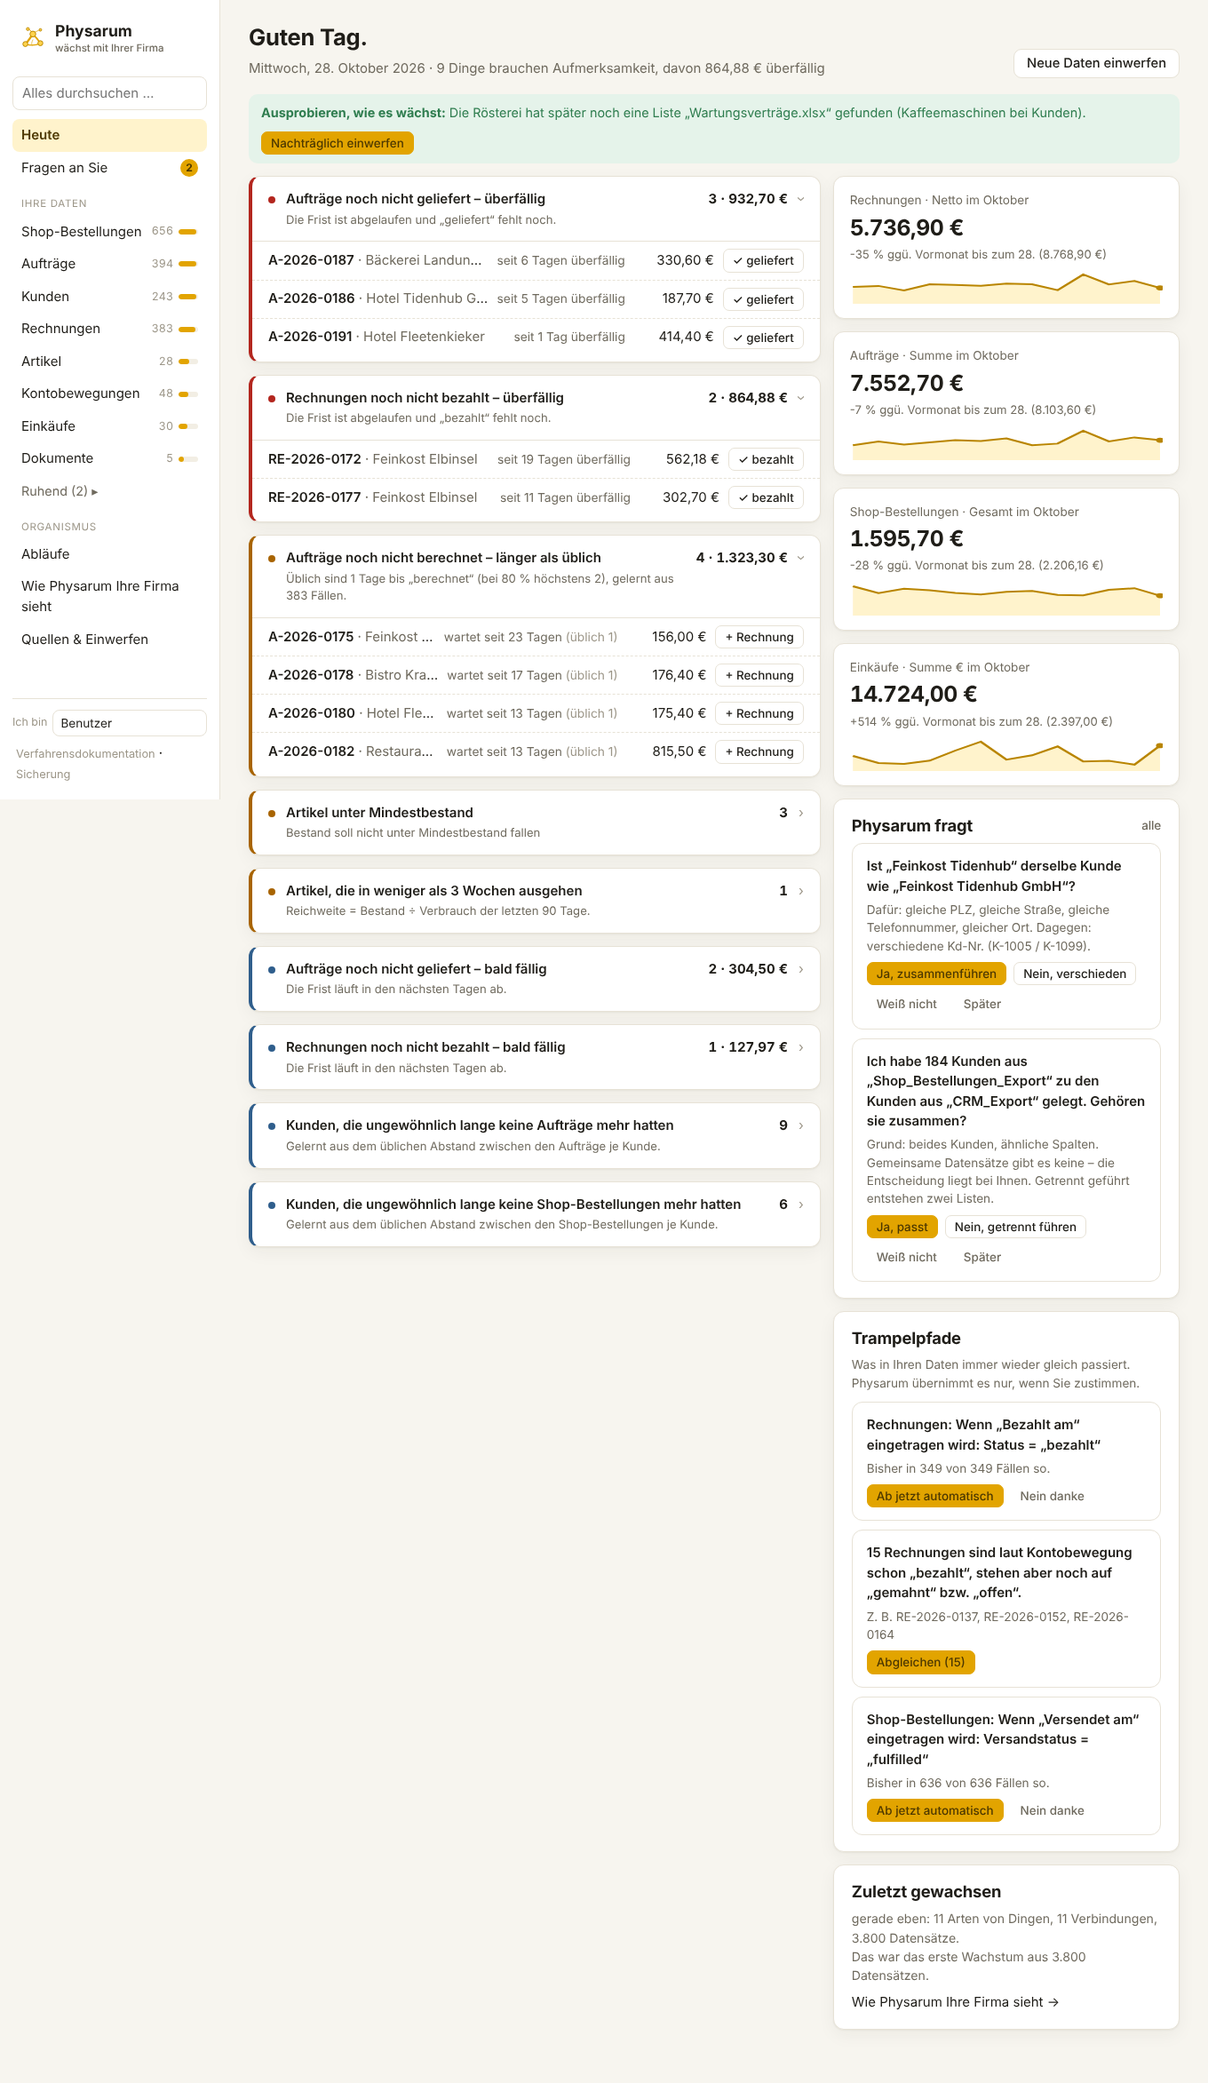
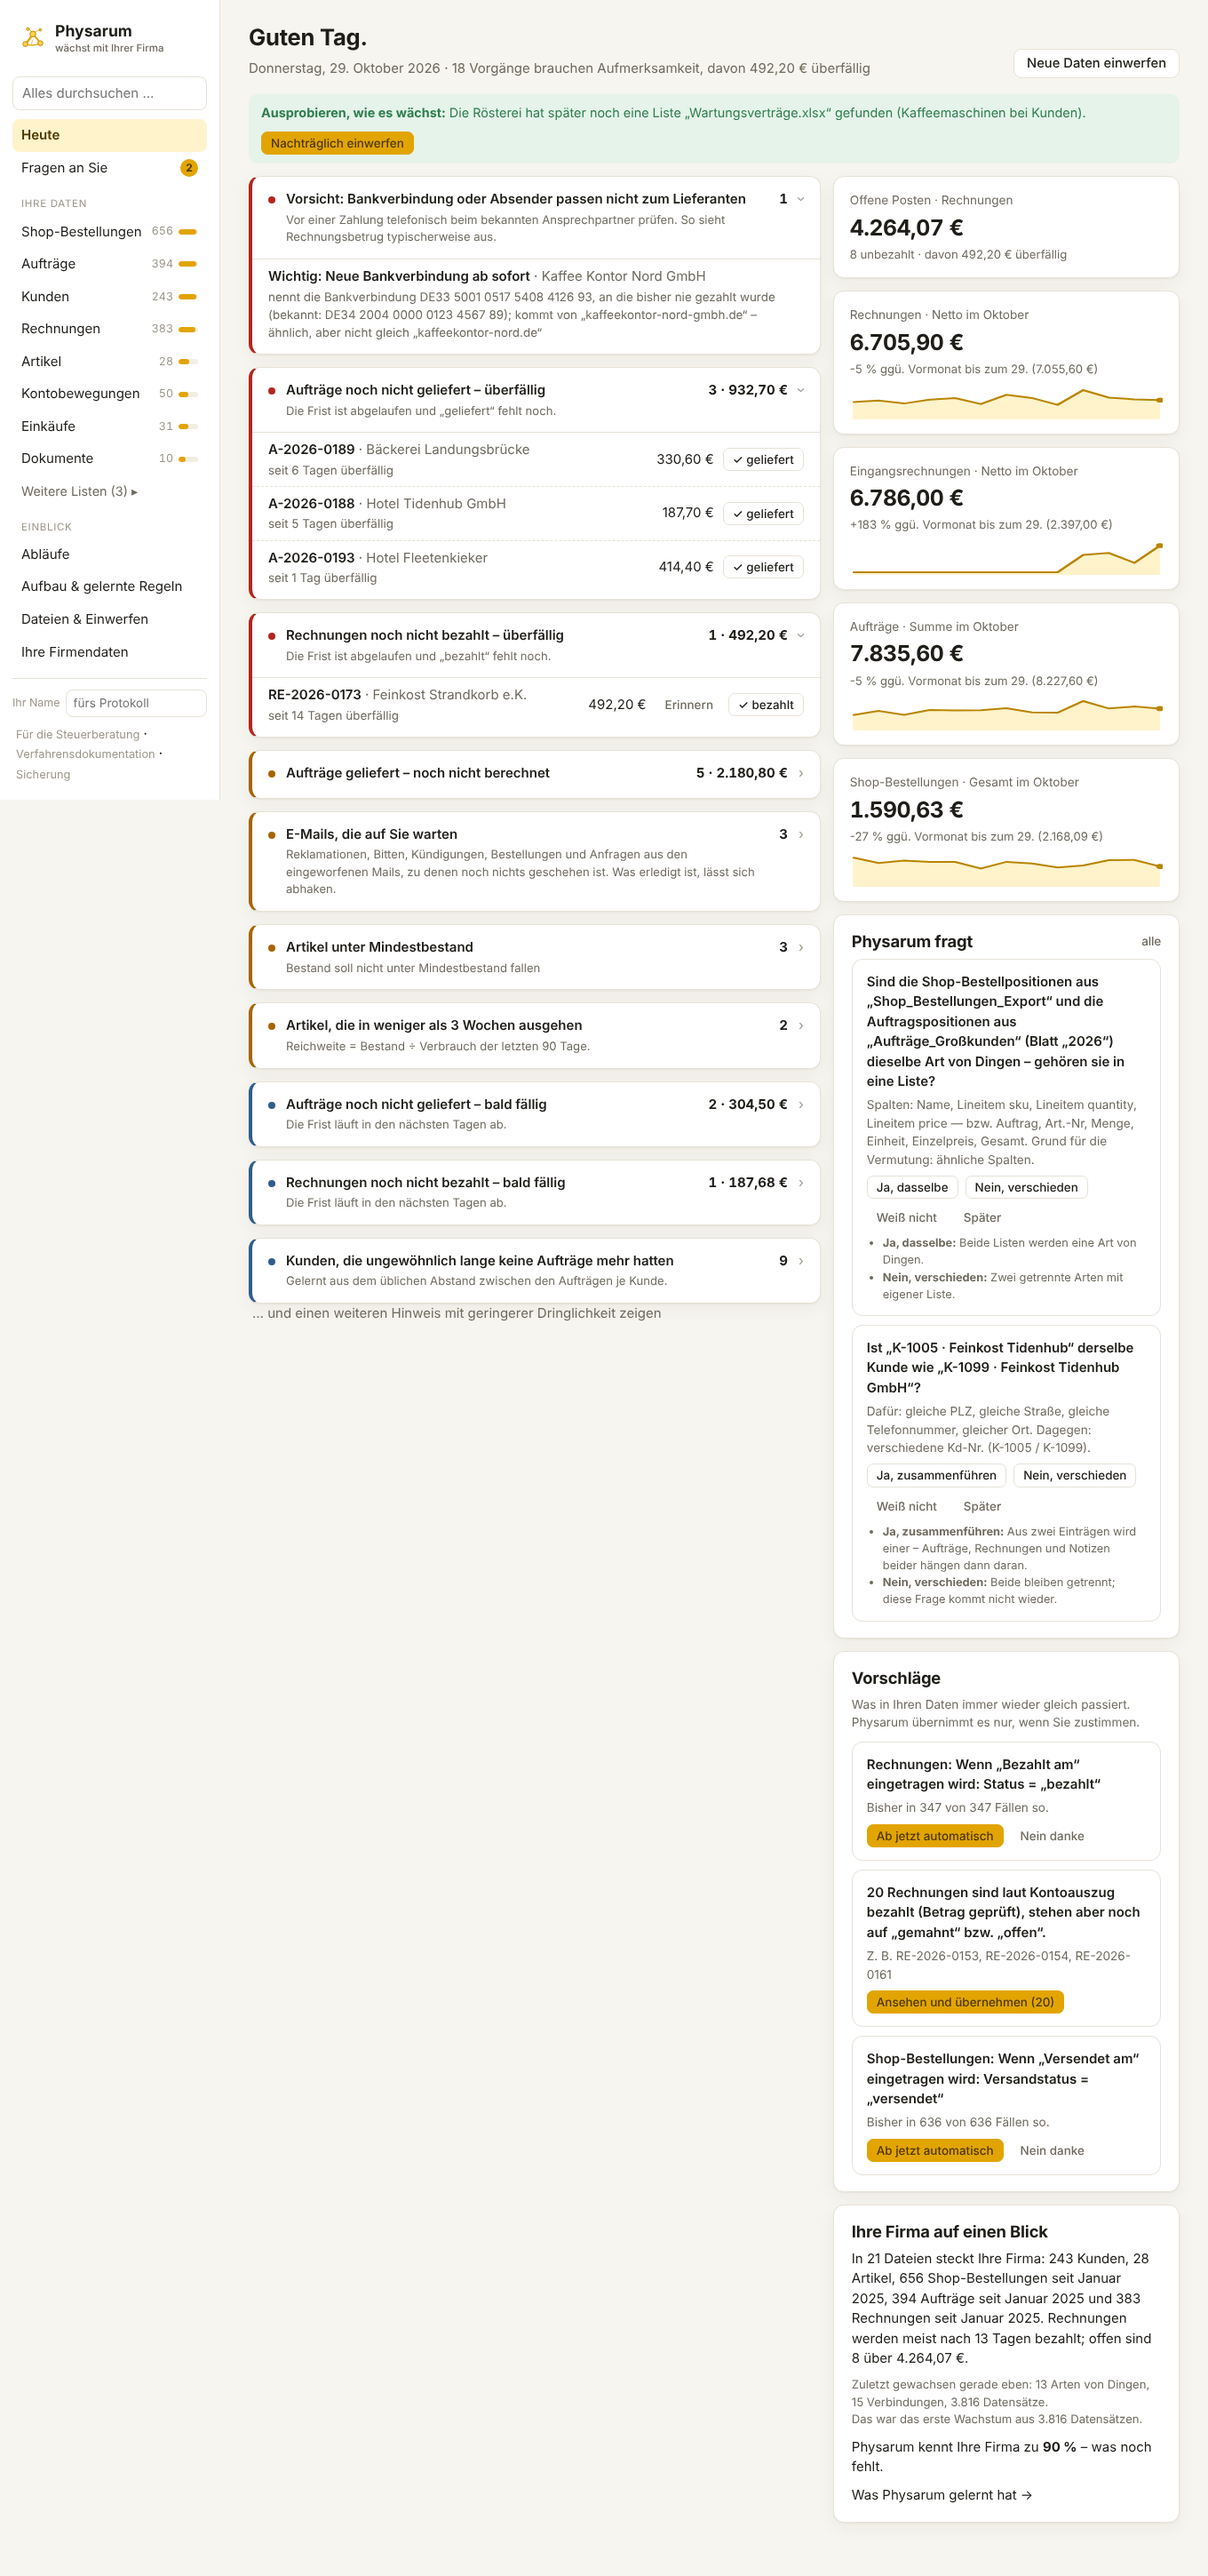
Positionen summieren Menge × Preis; Status und Netz lesbar
- Unter einer Shop-Bestellung stand als Summe der Positionen „9,52 €“ –
  der Stückpreis, nicht 2 × 9,52 €. Ein Einzelpreis wird nicht mehr
  addiert; gibt es keine Gesamtspalte, zählt Menge × Preis.
- Oben im Datensatz steht der Status auf Deutsch („nicht versendet“ statt
  „unfulfilled“), wie in den Feldern darunter.
- Im Netz der Arten wird ein langer Name am Rand nicht mehr abgeschnitten.
- „… und einen weiteren Hinweis zeigen“ statt „1 weitere Hinweis“.
- Neue Screenshots der Beispiel-Firma.

Claude-Session: https://claude.ai/code/session_01JaX4AY7xwaNBKKHu8xNPMb

Changed region(s): [[0.0, 0.0, 0.9882, 0.9962], [0.0309, 0.3424, 0.0926, 0.3736]]

diff --git a/physarum/web/templates/record.html b/physarum/web/templates/record.html
@@ -24,9 +24,9 @@
       <a class="pill" href="/t/{{ spec.id }}">{{ spec.name }}</a>
       {% if draft %}<span class="pill warn">Entwurf – noch nicht ausgestellt</span>{% endif %}
       {% if status_is_payment and not draft %}
-      <span class="pill {{ status_class(pay_status) }}" title="nach den Zahlungen im Kontoauszug{% if own_status != pay_status %} – in der Liste steht „{{ own_status }}“{% endif %}">{{ pay_status }}</span>
+      <span class="pill {{ status_class(pay_status) }}" title="nach den Zahlungen im Kontoauszug{% if own_status != pay_status %} – in der Liste steht „{{ show_value(own_status) }}“{% endif %}">{{ pay_status }}</span>
       {% else %}
-      {% if own_status and not draft %}<span class="pill {{ status_class(own_status) }}">{{ own_status }}</span>{% endif %}
+      {% if own_status and not draft %}<span class="pill {{ status_class(show_value(own_status)) }}" title="{{ own_status }}">{{ show_value(own_status) }}</span>{% endif %}
       {% if pay_status and pay_status != own_status %}<span class="pill {{ status_class(pay_status) }}" title="nach den Zahlungen im Kontoauszug">Zahlung: {{ pay_status }}</span>{% endif %}
       {% endif %}
       {% if lock and not lock.cancelled %}<span class="pill info" title="{{ lock.reason }}">festgeschrieben</span>{% endif %}

diff --git a/physarum/web/templates/home.html b/physarum/web/templates/home.html
@@ -97,7 +97,7 @@
       </details>
     </article>
     {% endfor %}
-    {% if more_work %}<button type="button" class="linkish muted" data-more=".more-group">… und {{ more_work }} weitere {{ 'Hinweis' if more_work == 1 else 'Hinweise' }} mit geringerer Dringlichkeit zeigen</button>{% endif %}
+    {% if more_work %}<button type="button" class="linkish muted" data-more=".more-group">… und {{ 'einen weiteren Hinweis' if more_work == 1 else more_work ~ ' weitere Hinweise' }} mit geringerer Dringlichkeit zeigen</button>{% endif %}
     </div>
 
     {% if quality %}

diff --git a/physarum/web/app.py b/physarum/web/app.py
@@ -135,6 +135,7 @@ def create_app(folder: str | Path, hosts: set[str] | None = None, any_ip: bool =
                        ago=views.ago, days_text=views.days_text, input_value=views.input_value,
                        after_days=views.after_days,
                        title=lambda rid: rt.title(rid), status_class=views.status_class, display=display,
+                       show_value=views.show_value,
                        stale_days=lambda iso: (date.today() - date.fromisoformat(str(iso)[:10])).days if iso else 0)
     env.filters["de"] = lambda x, d=0: views.display(x, "number") if d == 0 else f"{x:,.{d}f}".replace(",", "X").replace(".", ",").replace("X", ".")
     env.filters["json"] = lambda x: json.dumps(x, ensure_ascii=False, default=str)
@@ -525,12 +526,23 @@ def create_app(folder: str | Path, hosts: set[str] | None = None, any_ip: bool =
                 recs.sort(key=lambda r: str(r["data"].get(dattr) or ""), reverse=True)
             cols = views.related_columns(s2, recs, spec["id"], 6)
             money_cols = [c for c in s2["attrs"] if c["kind"] == "money" and not c.get("hidden")]
-            total_attr = next((c for c in money_cols if set(billing.words(c["name"])) & {"gesamt", "summe", "total", "betrag",
-                                                                                       "brutto", "offen"}), None) \
-                or (money_cols[-1] if money_cols else None)
-            total = sum(float(r["data"].get(total_attr["id"]) or 0) for r in recs if isinstance(r["data"].get(total_attr["id"]), (int, float))) if total_attr else None
-            label = s2["plural"] if kind == "ref" else (f"Erwähnt in {s2['plural']}" if attr != "doc" else "Erwähnt in Dokumenten")
             lines = s2["kind"] == "line"
+            # a unit price adds up to nothing: 2 × 9,52 € are not 9,52 €
+            per_piece = [c for c in money_cols if billing.words(c["name"]) & {"einzelpreis", "preis", "price", "ep",
+                                                                              "stueckpreis", "einheitspreis"}
+                         and not billing.words(c["name"]) & {"gesamt", "summe", "total", "gp", "gesamtpreis"}]
+            sums = [c for c in money_cols if c not in per_piece]
+            total_attr = next((c for c in sums if set(billing.words(c["name"])) & {"gesamt", "summe", "total", "betrag",
+                                                                                 "brutto", "offen"}), None) \
+                or (sums[-1] if sums else None)
+            total = sum(float(r["data"].get(total_attr["id"]) or 0) for r in recs if isinstance(r["data"].get(total_attr["id"]), (int, float))) if total_attr else None
+            qty = billing.attr_by(s2, kind="number", role="quantity") if lines and per_piece and not total_attr else None
+            if qty:  # the lines' worth: quantity × price
+                total = round(sum(float(r["data"][qty["id"]]) * float(r["data"][per_piece[0]["id"]]) for r in recs
+                                  if isinstance(r["data"].get(qty["id"]), (int, float))
+                                  and isinstance(r["data"].get(per_piece[0]["id"]), (int, float))), 2)
+                total_attr = dict(name=f"Summe (Menge × {per_piece[0]['name']})", currency=per_piece[0].get("currency"))
+            label = s2["plural"] if kind == "ref" else (f"Erwähnt in {s2['plural']}" if attr != "doc" else "Erwähnt in Dokumenten")
             shown = recs[:100] if lines else recs[:10]  # an invoice's positions in full; of 34 invoices the newest
             related.append(dict(spec=s2, attr=attr, kind=kind, recs=shown, n=len(recs), cols=cols, rel=relid,
                                 cond=cond.get(relid, 0.5 if kind == "ref" else 0.3), label=label, total=total,

diff --git a/physarum/web/views.py b/physarum/web/views.py
@@ -320,9 +320,16 @@ def organism_svg(rt, w: int = 900, h: int = 520, highlight: str | None = None) -
         r = min(r, 38)
         label = escape(t["plural"])
         cnt = t.get("count") or 0
+        # a long name at the edge would be cut off: it reads from the edge inwards instead
+        half, tx, anchor = len(t["plural"]) * 3.7, x, "middle"
+        if x - half < 4:
+            tx, anchor = max(4.0, x - r), "start"
+        elif x + half > w - 4:
+            tx, anchor = min(w - 4.0, x + r), "end"
+        how = f' style="text-anchor:{anchor}"' if anchor != "middle" else ""
         parts.append(f'<a href="/t/{t["id"]}"><g class="node {t["kind"]}"><circle cx="{x:.0f}" cy="{y:.0f}" r="{r:.0f}"/>'
-                     f'<text x="{x:.0f}" y="{y + r + 15:.0f}">{label}</text>'
-                     f'<text class="sub" x="{x:.0f}" y="{y + r + 29:.0f}">{cnt:,}</text></g></a>'.replace(",", "."))
+                     f'<text x="{tx:.0f}" y="{y + r + 15:.0f}"{how}>{label}</text>'
+                     f'<text class="sub" x="{tx:.0f}" y="{y + r + 29:.0f}"{how}>{cnt:,}</text></g></a>'.replace(",", "."))
     parts.append("</svg>")
     return Markup("".join(parts))
 

diff --git a/physarum/billing.py b/physarum/billing.py
@@ -72,6 +72,9 @@ def words(name: str) -> set[str]:
     return set(tokens(name, camel=False)) | set(tokens(name))
 
 
+_header_words = words
+
+
 def is_invoice(spec: dict | None) -> bool:
     """An invoice this firm writes (drafts, numbers, print, e-invoice, storno) – not one a
     supplier sent: those keep the supplier's number and are corrected by the supplier."""
@@ -87,6 +90,7 @@ def is_draft(rec: dict) -> bool:
 
 
 def attr_by(spec: dict, *, kind=None, words=(), role=None):
+    wanted = set(words)  # the parameter hides the function words() of this module
     for a in spec["attrs"]:
         if a.get("hidden") or a.get("virtual"):
             continue
@@ -94,7 +98,7 @@ def attr_by(spec: dict, *, kind=None, words=(), role=None):
             continue
         if role and a.get("role") != role:
             continue
-        if words and not words(a["name"]) & set(words):
+        if wanted and not _header_words(a["name"]) & wanted:
             continue
         return a
     return None
